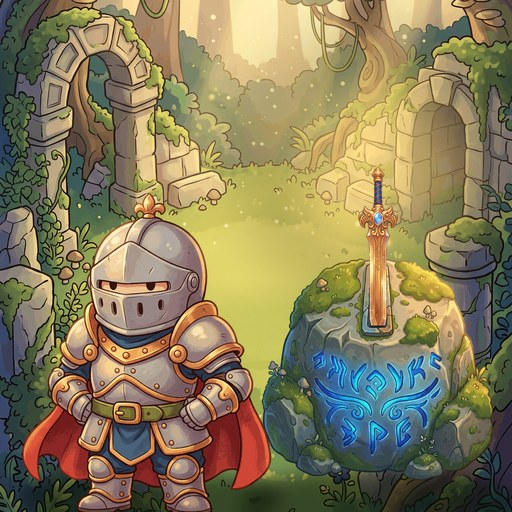
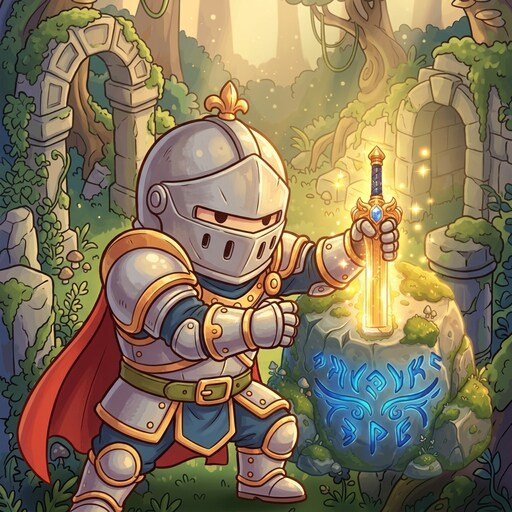
Sword in the Stone: new Magnific thumbnail (v44)
Claude-Session: https://claude.ai/code/session_01NQNaLAwtMe5ZszT8ucNXv3

diff --git a/play.html b/play.html
@@ -10,7 +10,7 @@
 <link rel="preconnect" href="https://fonts.googleapis.com">
 <link rel="preconnect" href="https://fonts.gstatic.com" crossorigin>
 <link href="https://fonts.googleapis.com/css2?family=Outfit:wght@400;600;700;800;900&display=swap" rel="stylesheet">
-<link rel="stylesheet" href="assets/style.css?v=43">
+<link rel="stylesheet" href="assets/style.css?v=44">
 <style>
   html,body{height:100%;overflow:hidden}
   @supports (height:100dvh){html,body{height:100dvh}}
@@ -135,10 +135,10 @@
   </div>
 </main>
 
-<script src="games.config.js?v=43"></script>
-<script src="assets/token.js?v=43"></script>
-<script src="assets/voucher.js?v=43"></script>
-<script src="assets/common.js?v=43"></script>
+<script src="games.config.js?v=44"></script>
+<script src="assets/token.js?v=44"></script>
+<script src="assets/voucher.js?v=44"></script>
+<script src="assets/common.js?v=44"></script>
 <script>
 (function () {
   const { esc, ICON, thumbImg, openModal, closeModal, toast } = UI;
@@ -199,7 +199,7 @@
      开始卡片出现时就先在后台载入游戏（?mgs_wait=1，游戏先不开局）。
      玩家按 Start 的同一下点击里启动游戏的声音（iPhone 只准「点一下」播放声音），
      扣完 TOKEN 再叫游戏开局。 */
-  const gameUrl = (wait) => g.file + (g.file.includes("?") ? "&" : "?") + "v=43" + (wait ? "&mgs_wait=1" : "");
+  const gameUrl = (wait) => g.file + (g.file.includes("?") ? "&" : "?") + "v=44" + (wait ? "&mgs_wait=1" : "");
   let frameState = "none";            // none | loading | ready | started
   let startWhenReady = false;
   const frameMGS = () => { try { return frame.contentWindow.MGS || null; } catch (e) { return null; } };
@@ -374,7 +374,7 @@
         const c = q(".console"); if (c) inner += "\nconsole: " + c + "   pad: " + q(".pad") + "   mascot: " + q("#mascot");
       } catch (e) { inner = "n/a"; }
       box.textContent = [
-        "build v43",
+        "build v44",
         "iOS class: " + de.classList.contains("ios-safari") + "   app-h class: " + de.classList.contains("app-h"),
         "--app-h: " + getComputedStyle(de).getPropertyValue("--app-h"),
         "innerHeight: " + innerHeight + "   vv: " + (vv ? Math.round(vv.height) + " (top " + Math.round(vv.offsetTop) + ")" : "-"),

diff --git a/index.html b/index.html
@@ -10,7 +10,7 @@
 <link rel="preconnect" href="https://fonts.googleapis.com">
 <link rel="preconnect" href="https://fonts.gstatic.com" crossorigin>
 <link href="https://fonts.googleapis.com/css2?family=Outfit:wght@400;600;700;800;900&display=swap" rel="stylesheet">
-<link rel="stylesheet" href="assets/style.css?v=43">
+<link rel="stylesheet" href="assets/style.css?v=44">
 </head>
 <body>
 
@@ -48,14 +48,14 @@
 </main>
 
 <footer class="foot">
-  Play responsibly · T&amp;Cs apply · <span style="opacity:.6">v43</span>
+  Play responsibly · T&amp;Cs apply · <span style="opacity:.6">v44</span>
   <span id="demoNote"></span>
 </footer>
 
-<script src="games.config.js?v=43"></script>
-<script src="assets/token.js?v=43"></script>
-<script src="assets/voucher.js?v=43"></script>
-<script src="assets/common.js?v=43"></script>
+<script src="games.config.js?v=44"></script>
+<script src="assets/token.js?v=44"></script>
+<script src="assets/voucher.js?v=44"></script>
+<script src="assets/common.js?v=44"></script>
 <script>
 (function () {
   const { esc, ICON, thumbImg, openModal } = UI;
@@ -69,7 +69,7 @@
 
   // 保留第三方带来的 ?token= 参数
   const qs = new URLSearchParams(location.search);
-  const playUrl = (id) => { const p = new URLSearchParams(qs); p.set("game", id); p.set("v", "43"); return "play.html?" + p.toString(); };
+  const playUrl = (id) => { const p = new URLSearchParams(qs); p.set("game", id); p.set("v", "44"); return "play.html?" + p.toString(); };
 
   function tagHTML(t) {
     if (!t) return "";

diff --git a/games/stack-stack-win.html b/games/stack-stack-win.html
@@ -1,4 +1,4 @@
-<!doctype html><html><head><meta charset=utf8><meta name=viewport content="width=device-width,initial-scale=1,viewport-fit=cover"><style>:root{color-scheme:light;box-sizing:border-box;padding-top:env(safe-area-inset-top,0px);padding-bottom:env(safe-area-inset-bottom,0px)}html{scroll-padding-top:env(safe-area-inset-top,0px)}body{margin:0;padding:0;font:14px -apple-system,BlinkMacSystemFont,sans-serif;background:#fff;color:#000}img{max-width:100%}[hidden]:not([hidden=until-found i]){display:none!important}</style><script src="mgs-bridge.js?v=43"></script>
+<!doctype html><html><head><meta charset=utf8><meta name=viewport content="width=device-width,initial-scale=1,viewport-fit=cover"><style>:root{color-scheme:light;box-sizing:border-box;padding-top:env(safe-area-inset-top,0px);padding-bottom:env(safe-area-inset-bottom,0px)}html{scroll-padding-top:env(safe-area-inset-top,0px)}body{margin:0;padding:0;font:14px -apple-system,BlinkMacSystemFont,sans-serif;background:#fff;color:#000}img{max-width:100%}[hidden]:not([hidden=until-found i]){display:none!important}</style><script src="mgs-bridge.js?v=44"></script>
 <style>/* MGS: mini game site */
 /* fill the whole frame (the game was a 9:16 phone shape) */
 .phone{width:100%!important;height:100%!important;aspect-ratio:auto!important;max-width:none!important;border-radius:0!important;box-shadow:none!important}

diff --git a/games/pocket-pilot.html b/games/pocket-pilot.html
@@ -1,4 +1,4 @@
-<!doctype html><html><head><meta charset=utf8><meta name=viewport content="width=device-width,initial-scale=1,viewport-fit=cover"><style>:root{color-scheme:light;box-sizing:border-box;padding-top:env(safe-area-inset-top,0px);padding-bottom:env(safe-area-inset-bottom,0px)}html{scroll-padding-top:env(safe-area-inset-top,0px)}body{margin:0;padding:0;font:14px -apple-system,BlinkMacSystemFont,sans-serif;background:#fff;color:#000}img{max-width:100%}[hidden]:not([hidden=until-found i]){display:none!important}</style><script src="mgs-bridge.js?v=43"></script>
+<!doctype html><html><head><meta charset=utf8><meta name=viewport content="width=device-width,initial-scale=1,viewport-fit=cover"><style>:root{color-scheme:light;box-sizing:border-box;padding-top:env(safe-area-inset-top,0px);padding-bottom:env(safe-area-inset-bottom,0px)}html{scroll-padding-top:env(safe-area-inset-top,0px)}body{margin:0;padding:0;font:14px -apple-system,BlinkMacSystemFont,sans-serif;background:#fff;color:#000}img{max-width:100%}[hidden]:not([hidden=until-found i]){display:none!important}</style><script src="mgs-bridge.js?v=44"></script>
 <style>/* MGS: mini game site */
 /* fill the whole frame: stage is 711 tall, its width follows the screen shape (set in fit) */
 #wrap{display:block}

diff --git a/games/sword-in-stone.html b/games/sword-in-stone.html
@@ -1,4 +1,4 @@
-<!doctype html><html><head><meta charset=utf8><meta name=viewport content="width=device-width,initial-scale=1,viewport-fit=cover"><style>:root{color-scheme:light;box-sizing:border-box;padding-top:env(safe-area-inset-top,0px);padding-bottom:env(safe-area-inset-bottom,0px)}html{scroll-padding-top:env(safe-area-inset-top,0px)}body{margin:0;padding:0;font:14px -apple-system,BlinkMacSystemFont,sans-serif;background:#fff;color:#000}img{max-width:100%}[hidden]:not([hidden=until-found i]){display:none!important}</style><script src="mgs-bridge.js?v=43"></script>
+<!doctype html><html><head><meta charset=utf8><meta name=viewport content="width=device-width,initial-scale=1,viewport-fit=cover"><style>:root{color-scheme:light;box-sizing:border-box;padding-top:env(safe-area-inset-top,0px);padding-bottom:env(safe-area-inset-bottom,0px)}html{scroll-padding-top:env(safe-area-inset-top,0px)}body{margin:0;padding:0;font:14px -apple-system,BlinkMacSystemFont,sans-serif;background:#fff;color:#000}img{max-width:100%}[hidden]:not([hidden=until-found i]){display:none!important}</style><script src="mgs-bridge.js?v=44"></script>
 <style>/* MGS: mini game site */
 /* fill the whole frame (the game was capped at 480px wide) */
 #app{max-width:none!important}

diff --git a/games/fruit-slash.html b/games/fruit-slash.html
@@ -1,4 +1,4 @@
-<!doctype html><html><head><meta charset=utf8><meta name=viewport content="width=device-width,initial-scale=1,viewport-fit=cover"><style>:root{color-scheme:light;box-sizing:border-box;padding-top:env(safe-area-inset-top,0px);padding-bottom:env(safe-area-inset-bottom,0px)}html{scroll-padding-top:env(safe-area-inset-top,0px)}body{margin:0;padding:0;font:14px -apple-system,BlinkMacSystemFont,sans-serif;background:#fff;color:#000}img{max-width:100%}[hidden]:not([hidden=until-found i]){display:none!important}</style><script src="mgs-bridge.js?v=43"></script>
+<!doctype html><html><head><meta charset=utf8><meta name=viewport content="width=device-width,initial-scale=1,viewport-fit=cover"><style>:root{color-scheme:light;box-sizing:border-box;padding-top:env(safe-area-inset-top,0px);padding-bottom:env(safe-area-inset-bottom,0px)}html{scroll-padding-top:env(safe-area-inset-top,0px)}body{margin:0;padding:0;font:14px -apple-system,BlinkMacSystemFont,sans-serif;background:#fff;color:#000}img{max-width:100%}[hidden]:not([hidden=until-found i]){display:none!important}</style><script src="mgs-bridge.js?v=44"></script>
 <style>/* MGS: mini game site */
 /* fill the whole frame */
 #stage{width:100%!important;box-shadow:none!important}

diff --git a/games/flash-memory.html b/games/flash-memory.html
@@ -1,4 +1,4 @@
-<!doctype html><html><head><meta charset=utf8><meta name=viewport content="width=device-width,initial-scale=1,viewport-fit=cover"><style>:root{color-scheme:light;box-sizing:border-box;padding-top:env(safe-area-inset-top,0px);padding-bottom:env(safe-area-inset-bottom,0px)}html{scroll-padding-top:env(safe-area-inset-top,0px)}body{margin:0;padding:0;font:14px -apple-system,BlinkMacSystemFont,sans-serif;background:#fff;color:#000}img{max-width:100%}[hidden]:not([hidden=until-found i]){display:none!important}</style><script src="mgs-bridge.js?v=43"></script>
+<!doctype html><html><head><meta charset=utf8><meta name=viewport content="width=device-width,initial-scale=1,viewport-fit=cover"><style>:root{color-scheme:light;box-sizing:border-box;padding-top:env(safe-area-inset-top,0px);padding-bottom:env(safe-area-inset-bottom,0px)}html{scroll-padding-top:env(safe-area-inset-top,0px)}body{margin:0;padding:0;font:14px -apple-system,BlinkMacSystemFont,sans-serif;background:#fff;color:#000}img{max-width:100%}[hidden]:not([hidden=until-found i]){display:none!important}</style><script src="mgs-bridge.js?v=44"></script>
 <style>/* MGS: mini game site */
 /* fill the whole frame */
 body{padding:0!important}

diff --git a/games/golden-goal.html b/games/golden-goal.html
@@ -1,4 +1,4 @@
-<!doctype html><html><head><meta charset=utf8><meta name=viewport content="width=device-width,initial-scale=1,viewport-fit=cover"><style>:root{color-scheme:light;box-sizing:border-box;padding-top:env(safe-area-inset-top,0px);padding-bottom:env(safe-area-inset-bottom,0px)}html{scroll-padding-top:env(safe-area-inset-top,0px)}body{margin:0;padding:0;font:14px -apple-system,BlinkMacSystemFont,sans-serif;background:#fff;color:#000}img{max-width:100%}[hidden]:not([hidden=until-found i]){display:none!important}</style><script src="mgs-bridge.js?v=43"></script>
+<!doctype html><html><head><meta charset=utf8><meta name=viewport content="width=device-width,initial-scale=1,viewport-fit=cover"><style>:root{color-scheme:light;box-sizing:border-box;padding-top:env(safe-area-inset-top,0px);padding-bottom:env(safe-area-inset-bottom,0px)}html{scroll-padding-top:env(safe-area-inset-top,0px)}body{margin:0;padding:0;font:14px -apple-system,BlinkMacSystemFont,sans-serif;background:#fff;color:#000}img{max-width:100%}[hidden]:not([hidden=until-found i]){display:none!important}</style><script src="mgs-bridge.js?v=44"></script>
 <style>/* MGS: mini game site */
 /* fill the whole frame */
 body{padding:0!important}

diff --git a/games/croc-road.html b/games/croc-road.html
@@ -172,7 +172,7 @@ canvas{position:absolute;inset:0;width:100%;height:100%;display:block;touch-acti
 @media (max-height:640px){.how small{display:none}.hero{height:24vh}}
 @media (prefers-reduced-motion:reduce){*{animation:none!important;transition:none!important}}
 </style>
-<script src="mgs-bridge.js?v=43"></script>
+<script src="mgs-bridge.js?v=44"></script>
 <style>/* MGS: mini game site */
 #replayHud{display:none!important}
 /* owner: no white focus frame on buttons (the game focuses them when a result screen opens) */

diff --git a/games/gold-rush-mines.html b/games/gold-rush-mines.html
@@ -310,7 +310,7 @@ img.rain{object-fit:contain;filter:drop-shadow(0 3px 4px rgba(0,0,0,.5))}
 @media (prefers-reduced-motion:reduce){*,*::before,*::after{animation-duration:.01ms!important;animation-iteration-count:1!important;transition:none!important}}
 @media (min-width:700px){.app{padding-block:28px}}
 </style>
-<script src="mgs-bridge.js?v=43"></script>
+<script src="mgs-bridge.js?v=44"></script>
 <style>/* MGS: mini game site */
 #newBtn{display:none!important}
 .ctrls{grid-template-columns:1fr!important}

diff --git a/games/jungle-whack.html b/games/jungle-whack.html
@@ -214,7 +214,7 @@
   @keyframes openBox{0%{transform:scale(1)}25%{transform:scale(1.45) translateY(-6px)}75%{transform:scale(1.55) translateY(-10px);opacity:1}100%{transform:scale(1.7) translateY(-14px);opacity:0}}
   @media (prefers-reduced-motion: reduce){.btn.pulse,.box,.mote,.lineup i{animation:none}}
 </style>
-<script src="mgs-bridge.js?v=43"></script>
+<script src="mgs-bridge.js?v=44"></script>
 <style>/* MGS: mini game site */
 #savedBtn{display:none!important}
 </style>

diff --git a/games/fortune-catch.html b/games/fortune-catch.html
@@ -122,7 +122,7 @@
   @keyframes spin{to{transform:rotate(360deg)}}
   @media (prefers-reduced-motion: reduce){ .btn,.hero,.rays,.card{animation:none} }
 </style>
-<script src="mgs-bridge.js?v=43"></script>
+<script src="mgs-bridge.js?v=44"></script>
 <style>/* MGS: mini game site */
 
 </style>
